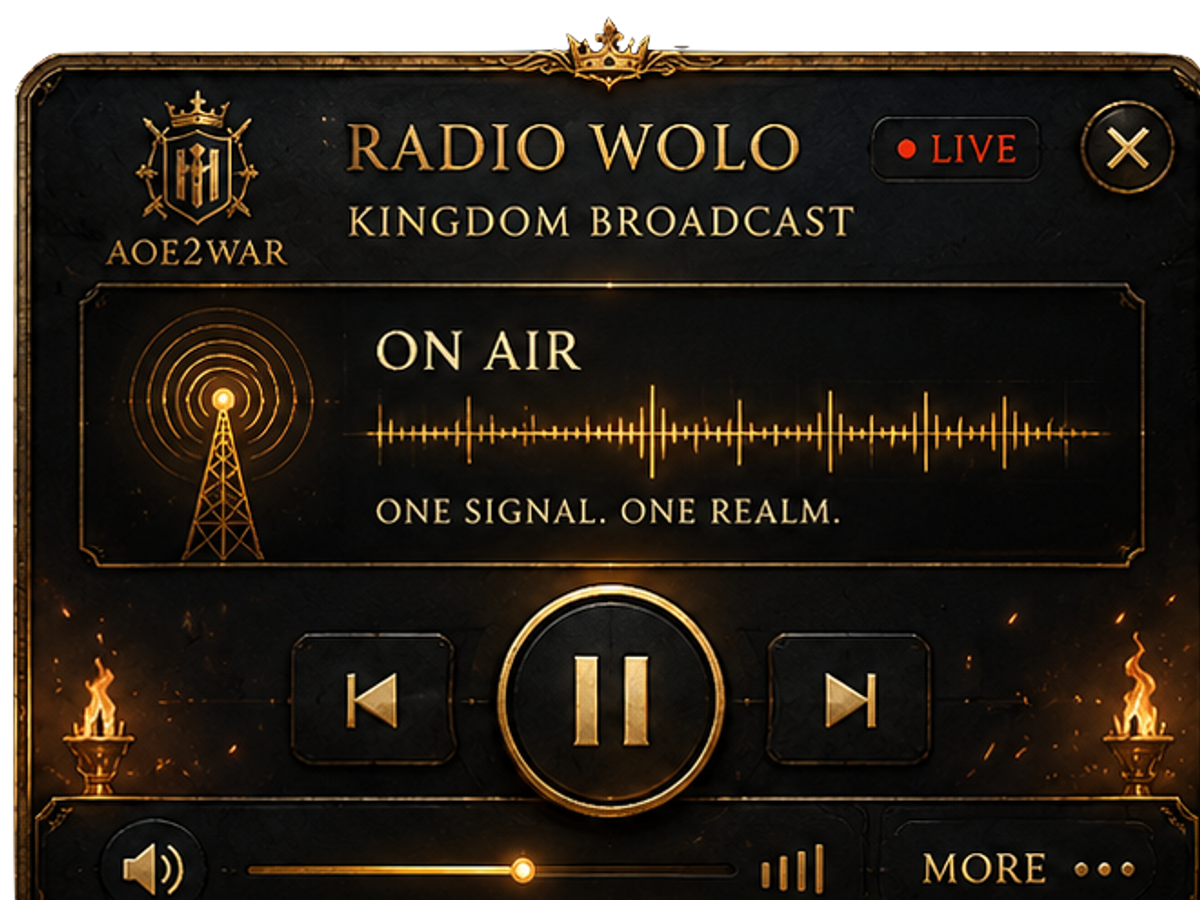
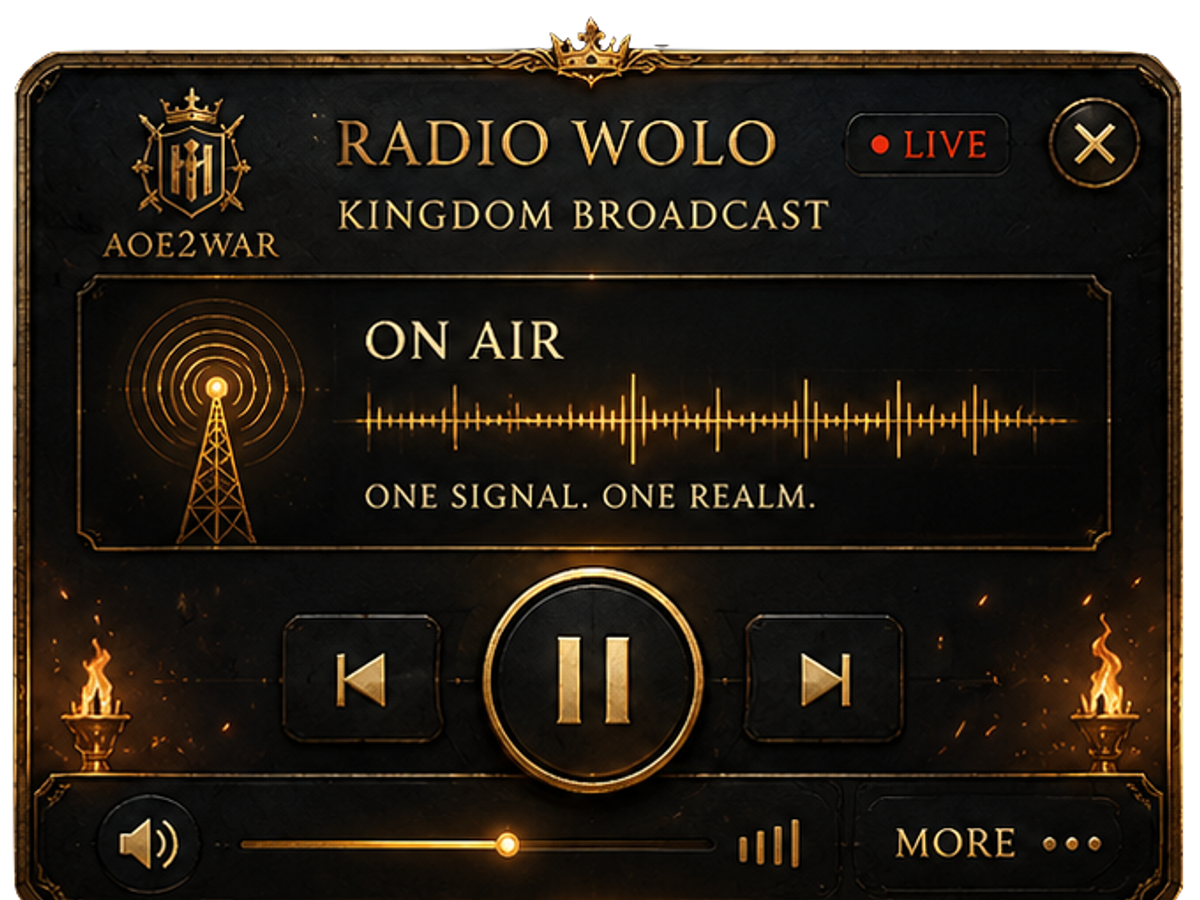
Finalize Radio WOLO artwork mini players

Changed region(s): [[0.0, 0.0, 1.0, 1.0], [0.2775, 0.1244, 0.6783, 0.1867], [0.2158, 0.7467, 0.2467, 0.8089]]

diff --git a/components/radio/RadioWoloGlobalPlayer.tsx b/components/radio/RadioWoloGlobalPlayer.tsx
@@ -28,7 +28,7 @@ const THEME_STORAGE_KEY =
   "aoe2war:radio-wolo-player-theme:v3";
 
 const SKIN_STORAGE_KEY =
-  "aoe2war:radio-wolo-player-skin:v1";
+  "aoe2war:radio-wolo-player-skin:v2";
 
 const PLAYER_SKINS = [
   {
@@ -70,7 +70,7 @@ function readStoredSkin(): PlayerSkinId {
     typeof window ===
     "undefined"
   ) {
-    return "ui";
+    return "mini4";
   }
 
   try {
@@ -92,7 +92,7 @@ function readStoredSkin(): PlayerSkinId {
     // Player appearance persistence is optional.
   }
 
-  return "ui";
+  return "mini4";
 }
 
 const AUTOPLAY_STORAGE_KEY =
@@ -159,7 +159,7 @@ const PLAYER_THEMES = [
     dormant:
       "border-[#294c78]/70 bg-[#020817]/98 text-amber-300 shadow-[0_0_24px_rgba(17,52,96,0.26)] hover:border-amber-600/55 hover:text-amber-200",
     shell:
-      "border-[#294c78]/65 bg-[radial-gradient(circle_at_12%_-8%,rgba(37,99,235,0.24),transparent_42%),radial-gradient(circle_at_92%_110%,rgba(180,83,9,0.10),transparent_38%),linear-gradient(145deg,#07172f_0%,#031022_48%,#020817_100%)]",
+      "border-amber-800/30 bg-[radial-gradient(circle_at_80%_92%,rgba(37,99,235,0.19),transparent_47%),radial-gradient(circle_at_69%_106%,rgba(217,119,6,0.065),transparent_34%),linear-gradient(168deg,#01040a_0%,#020814_22%,#061326_48%,#0b2444_73%,#12355f_100%)]",
     dot:
       "bg-amber-500 shadow-[0_0_11px_rgba(245,158,11,0.86)]",
     control:
@@ -334,6 +334,111 @@ function progressPercent(
   );
 }
 
+function artFaceBackgroundSize(
+  skinId: PlayerSkinId,
+) {
+  switch (skinId) {
+    case "mini1":
+    case "mini2":
+    case "mini3":
+    case "mini4":
+      return "100% 100%";
+
+    case "ui":
+    default:
+      return "100% 100%";
+  }
+}
+
+function artFaceBackgroundPosition(
+  skinId: PlayerSkinId,
+) {
+  switch (skinId) {
+    case "mini1":
+      return "center center";
+
+    case "mini2":
+      return "center center";
+
+    case "mini3":
+      return "center center";
+
+    case "mini4":
+      return "center center";
+
+    case "ui":
+    default:
+      return "center center";
+  }
+}
+
+function artFaceShellClassName(
+  skinId: PlayerSkinId,
+) {
+  const base =
+    "fixed bottom-[calc(env(safe-area-inset-bottom)+5.8rem)] left-3 z-[169] aspect-[4/3] w-[min(19rem,calc(100vw-1.5rem))] bg-transparent shadow-[0_24px_72px_rgba(0,0,0,0.58)] lg:bottom-4 lg:left-4";
+
+  if (
+    skinId === "mini1"
+  ) {
+    return (
+      base +
+      " overflow-visible rounded-none"
+    );
+  }
+
+  return (
+    base +
+    " overflow-hidden rounded-[1.45rem]"
+  );
+}
+
+function artFaceShowsStandaloneMore(
+  skinId: PlayerSkinId,
+) {
+  return skinId === "mini1";
+}
+
+function artFaceMoreHotspotClassName(
+  skinId: PlayerSkinId,
+) {
+  const focusRing =
+    " focus-visible:outline-none focus-visible:ring-2 focus-visible:ring-amber-300/80";
+
+  switch (skinId) {
+    case "mini1":
+      return (
+        "absolute bottom-[4.0%] right-[4.0%] min-w-[54px] rounded-[10px] border border-amber-300/35 bg-[#060d18]/92 px-2 py-1 text-[8px] font-black uppercase tracking-[0.16em] text-amber-100/95 shadow-[0_3px_10px_rgba(0,0,0,0.42)] backdrop-blur-sm transition hover:border-amber-200/60 hover:text-amber-50" +
+        focusRing
+      );
+
+    case "mini2":
+      return (
+        "absolute bottom-[2.2%] right-[2.6%] h-[14.5%] w-[23%] rounded-[12px] bg-transparent text-transparent" +
+        focusRing
+      );
+
+    case "mini3":
+      return (
+        "absolute bottom-[2.1%] right-[2.4%] h-[14.5%] w-[23%] rounded-[12px] bg-transparent text-transparent" +
+        focusRing
+      );
+
+    case "mini4":
+      return (
+        "absolute bottom-[2.2%] right-[2.4%] h-[14.5%] w-[21.5%] rounded-[12px] bg-transparent text-transparent" +
+        focusRing
+      );
+
+    case "ui":
+    default:
+      return (
+        "absolute bottom-3 right-3 rounded-md border border-amber-300/35 bg-[#060d18]/88 px-2.5 py-1 text-[9px] font-black uppercase tracking-[0.18em] text-amber-100/90 shadow-[0_4px_12px_rgba(0,0,0,0.38)] backdrop-blur-sm transition hover:border-amber-200/60 hover:text-amber-50" +
+        focusRing
+      );
+  }
+}
+
 export default function RadioWoloGlobalPlayer() {
   const {
     station,
@@ -402,7 +507,7 @@ export default function RadioWoloGlobalPlayer() {
     setSkinId,
   ] =
     React.useState<PlayerSkinId>(
-      "ui",
+      "mini4",
     );
 
   React.useEffect(() => {
@@ -721,16 +826,22 @@ export default function RadioWoloGlobalPlayer() {
           skinId
         }
         data-radio-wolo-art-face
-        className="fixed bottom-[calc(env(safe-area-inset-bottom)+5.8rem)] left-3 z-[169] aspect-[4/3] w-[min(19rem,calc(100vw-1.5rem))] overflow-hidden rounded-[1rem] bg-[#020817] shadow-[0_24px_72px_rgba(0,0,0,0.72),0_0_26px_rgba(20,67,124,0.16)] lg:bottom-4 lg:left-4"
+        className={artFaceShellClassName(
+          skinId,
+        )}
         style={{
           backgroundImage:
             `url("${activeSkin.src}")`,
           backgroundPosition:
-            "center",
+            artFaceBackgroundPosition(
+              skinId,
+            ),
           backgroundRepeat:
             "no-repeat",
           backgroundSize:
-            "cover",
+            artFaceBackgroundSize(
+              skinId,
+            ),
         }}
       >
         <span
@@ -748,11 +859,6 @@ export default function RadioWoloGlobalPlayer() {
             className="pointer-events-none absolute inset-0 bg-[#020817]/20"
           />
         ) : null}
-
-        <div
-          aria-hidden="true"
-          className="pointer-events-none absolute inset-0 ring-1 ring-inset ring-amber-400/18"
-        />
 
         <button
           type="button"
@@ -802,12 +908,21 @@ export default function RadioWoloGlobalPlayer() {
               "expanded",
             );
           }}
-          className="absolute bottom-[2%] right-[2%] h-[18%] w-[31%] rounded-lg bg-transparent text-transparent focus-visible:outline-none focus-visible:ring-2 focus-visible:ring-amber-300/80"
+          className={artFaceMoreHotspotClassName(
+          skinId,
+        )}
           aria-label="More Radio WOLO controls"
         >
+        {artFaceShowsStandaloneMore(
+          skinId,
+        ) ? (
+          "More"
+        ) : (
           <span className="sr-only">
             More
           </span>
+        )}
+
         </button>
       </section>
     );
@@ -1178,7 +1293,7 @@ export default function RadioWoloGlobalPlayer() {
           </div>
 
           {programName ? (
-            <div className="mt-3 rounded-xl border border-white/[0.055] bg-white/[0.025] px-3 py-2">
+            <div className="hidden mt-3 rounded-xl border border-white/[0.055] bg-white/[0.025] px-3 py-2">
               <div className="text-[8px] uppercase tracking-[0.18em] text-white/28">
                 Program
               </div>
@@ -1189,7 +1304,7 @@ export default function RadioWoloGlobalPlayer() {
           ) : null}
 
           {nextTitle ? (
-            <div className="mt-2 rounded-xl border border-white/[0.045] bg-white/[0.018] px-3 py-2">
+            <div className="hidden mt-2 rounded-xl border border-white/[0.045] bg-white/[0.018] px-3 py-2">
               <div className="text-[8px] uppercase tracking-[0.18em] text-white/25">
                 Next
               </div>
@@ -1200,7 +1315,7 @@ export default function RadioWoloGlobalPlayer() {
           ) : null}
 
           {playbackBlocked ? (
-            <div className="mt-3 rounded-xl border border-amber-200/12 bg-amber-300/[0.045] px-3 py-2 text-[10px] leading-4 text-amber-50/65">
+            <div className="hidden mt-3 rounded-xl border border-amber-200/12 bg-amber-300/[0.045] px-3 py-2 text-[10px] leading-4 text-amber-50/65">
               Your browser requires a tap before Radio WOLO can enter. Press Listen once.
             </div>
           ) : null}
